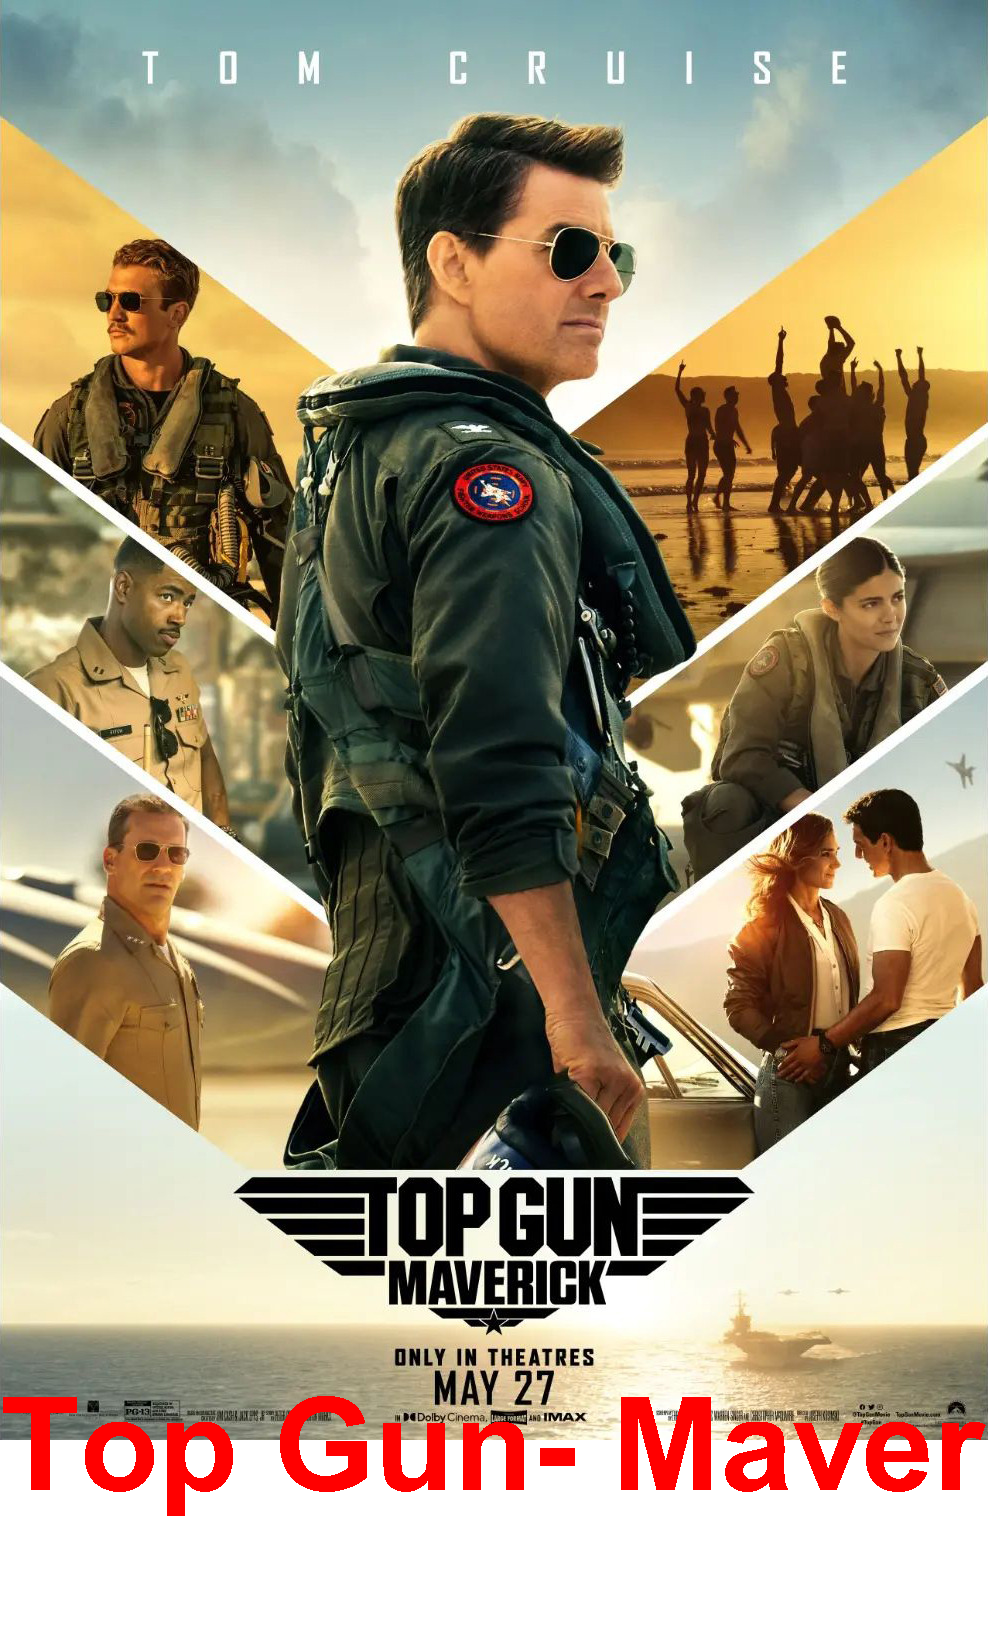
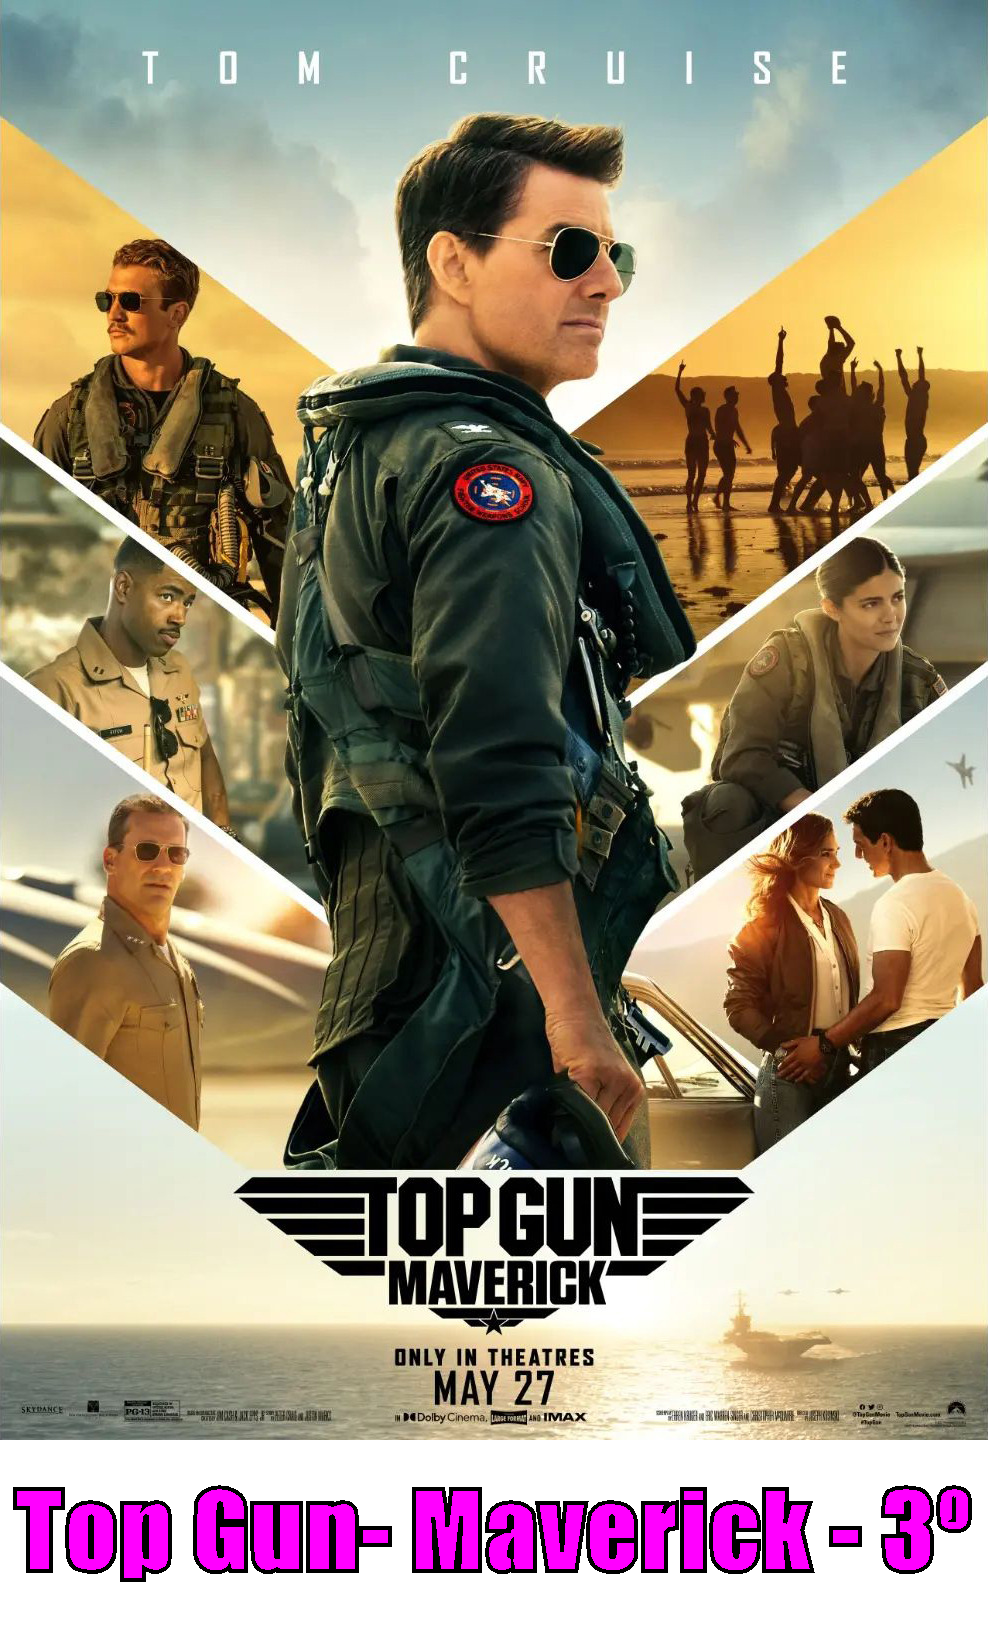
Feature: Mudar font
Muda a font da palavra que é criada na imagem de acordo com o rank

Changed region(s): [[0.0, 0.8396, 1.0, 0.964]]

diff --git a/ListaFilmesAPI/src/com/ListaFilmesAPI/aula2/gerador/GeradorDeFigurinhas.java b/ListaFilmesAPI/src/com/ListaFilmesAPI/aula2/gerador/GeradorDeFigurinhas.java
@@ -1,13 +1,19 @@
 package com.ListaFilmesAPI.aula2.gerador;
 
+import java.awt.BasicStroke;
 import java.awt.Color;
 import java.awt.Font;
+import java.awt.FontMetrics;
 import java.awt.Graphics2D;
+import java.awt.Shape;
+import java.awt.font.FontRenderContext;
+import java.awt.font.TextLayout;
+import java.awt.geom.AffineTransform;
+import java.awt.geom.Rectangle2D;
 import java.awt.image.BufferedImage;
 import java.io.File;
 import java.io.FileOutputStream;
 import java.io.InputStream;
-import java.net.URL;
 
 import javax.imageio.ImageIO;
 
@@ -39,15 +45,51 @@ public class GeradorDeFigurinhas {
 		graphics.drawImage(imagemOriginal, 0, 0, null);									// Desenha a imagem com graphics
 		
 		// Configurando o Graphics2D
-		var fonte = new Font(Font.SANS_SERIF, Font.BOLD, 100);							// Cria uma fonte e a armazena
+		var fonte = new Font("Impact", Font.BOLD, 100);									// Cria uma fonte e a armazena
 		graphics.setFont(fonte);														// Configura a fonte do Graphics2D para minha variavel
-		graphics.setColor(Color.RED);													// Configurar a cor para vermelho
 		
-		// Escrevendo uma frase na nova imagem
-		String frase = nomeArquivo + " --- " + rank; 									// Concatena e armazena os dados na variavel
-		graphics.drawString(frase, 0, (altura + 50));									// Escreve na imagem recebendo respectivamente: String, x, y
+		switch(rank) {																	// Configurar a cor de acordo com o rank
+			case "1":
+				graphics.setColor(Color.YELLOW);
+				break;
+			case "2":
+				graphics.setColor(Color.LIGHT_GRAY);
+				break;
+			case "3":
+				graphics.setColor(Color.magenta);
+				break;
+			default:
+				graphics.setColor(Color.WHITE);
+				break;
+		}
+														
 		
-		// Escrever a nova imagem em um arquivo, cria uma pasta caso não exista
+		
+		// Escrevendo uma frase
+		String frase = nomeArquivo + " - " + rank + "º"; 									// Concatena e armazena os dados na variavel
+		FontMetrics fontMetrics = graphics.getFontMetrics();							// Pega as medidas do texto (altura, largura)
+		Rectangle2D retanguloFrase = fontMetrics.getStringBounds(frase, graphics);		// Cria um retangulo baseado na altura e largura do texto
+		int larguraTexto = (int) retanguloFrase.getWidth();								// Armazena a posição X do retangulo
+		int posicaoTextoX = (largura - larguraTexto)/2;									// Ajusta a posição X do texto
+		int posicaoTextoY =  (altura + (int)(retanguloFrase.getHeight())) + 10;			// Ajusta posição Y do texto
+		graphics.drawString(frase, posicaoTextoX, posicaoTextoY);						// Escreve na imagem recebendo respectivamente: String, x, y
+		
+		// Fazendo o contorno dessa frase
+		FontRenderContext fontRenderContext = graphics.getFontRenderContext();			
+		var textLayout = new TextLayout(frase, fonte, fontRenderContext);				
+		Shape outline = textLayout.getOutline(null);
+		AffineTransform transform = graphics.getTransform();
+		transform.translate(posicaoTextoX, posicaoTextoY);
+		graphics.setTransform(transform);
+		
+		var outlineStroke = new BasicStroke(largura * 0.004f);
+		graphics.setStroke(outlineStroke);
+		
+		graphics.setColor(Color.BLACK);
+		graphics.draw(outline);
+		graphics.setClip(outline);
+		
+		// Escrever a nova imagem em um arquivo, cria uma pasta caso não exista																				
 		File file = new File("saida/" + (nomeArquivo + ".png")); 						// Armazena diretorio para qual a imagem ira, e seu titulo
 		if (!file.getParentFile().exists()) {											// Verifica se diretorio não é existente
 		    file.getParentFile().mkdirs();												// Caso true, cria o mesmo

diff --git a/ListaFilmesAPI/src/com/ListaFilmesAPI/base/main/Main.java b/ListaFilmesAPI/src/com/ListaFilmesAPI/base/main/Main.java
@@ -63,8 +63,7 @@ public class Main {
 			// ----------------------------------------Gera figurinha e exporta imagens para diretorio local (saida)---------------------------------------
 			
 			InputStream inputStream = new URL(img).openStream();				// Recebe diretorio da imagem
-			titulo = titulo.replace(":", "-"); 								    // Substitui do titulo : por - para evitar erros do windows
-			rank = "Posição : " + rank; 									    // Prepara string de rank
+			titulo = titulo.replace(":", "-"); 								    // Substitui do titulo : por - para evitar erros do windows									    // Prepara string de rank
 			gerador.cria(inputStream, titulo, rank); 							// Envia o diretorio, o titulo e o rank para a classe processar e gerar as imagens
 			System.out.println();												// Pula linha
 			
